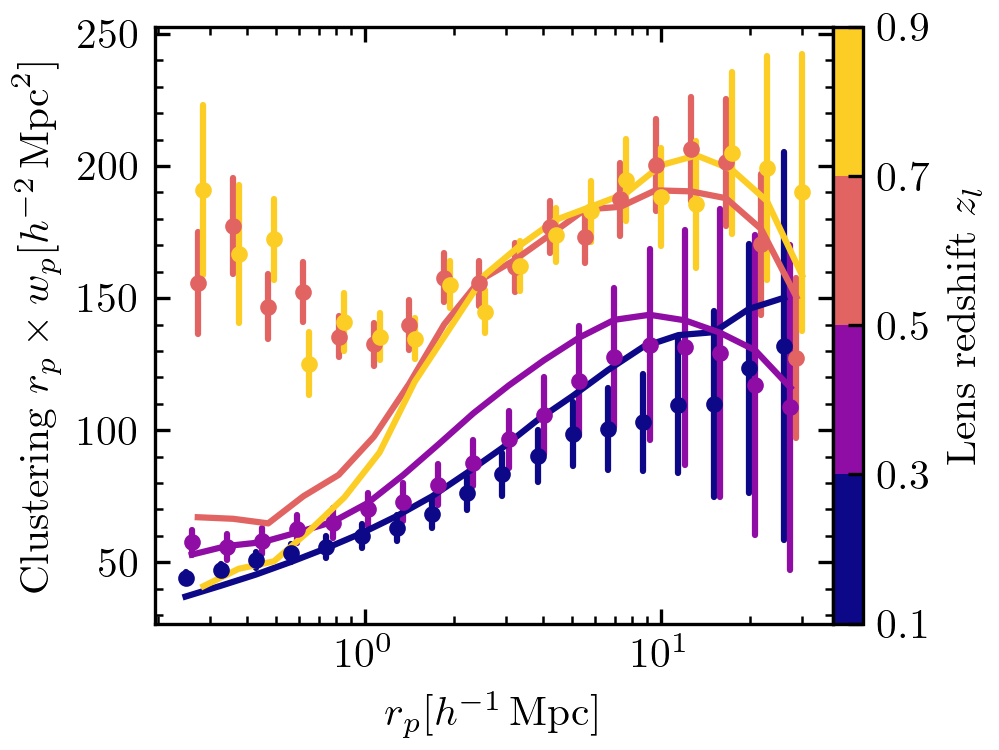
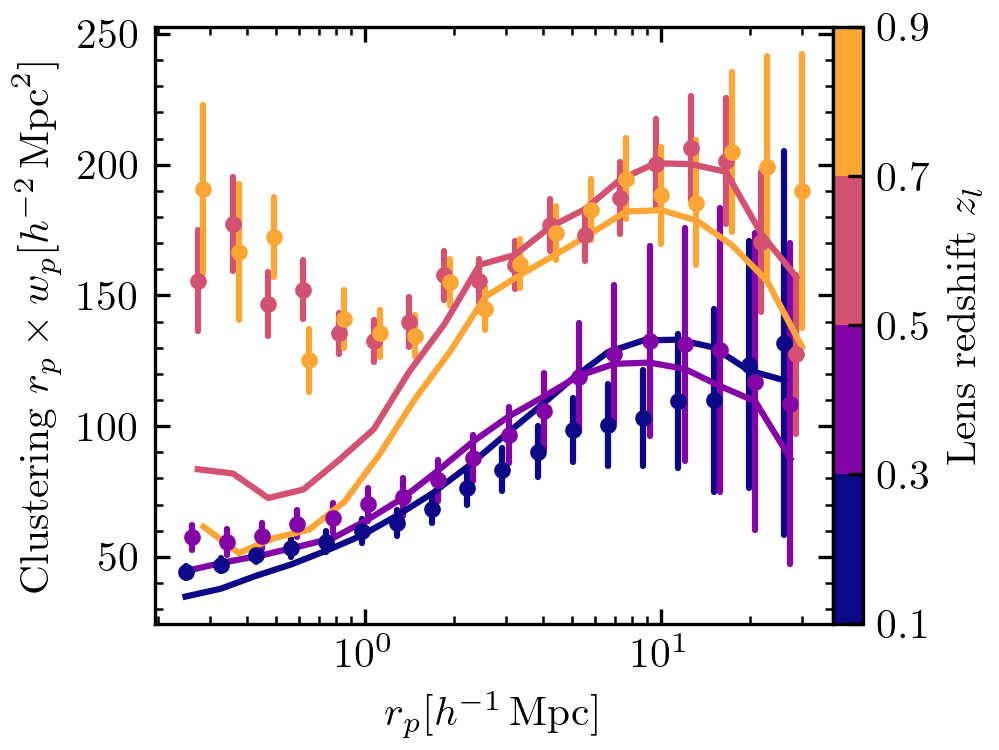
updated misc/lens_clustering

diff --git a/misc/lens_clustering/run.py b/misc/lens_clustering/run.py
@@ -2,7 +2,6 @@ import os
 import zebu
 import numpy as np
 import multiprocessing
-from scipy import constants
 import matplotlib as mpl
 import matplotlib.pyplot as plt
 from Corrfunc.mocks import DDrppi_mocks
@@ -20,17 +19,17 @@ def projected_correlation_function(table_l, table_r, rp_bins, pi_max):
     n_r = len(table_r)
 
     n = multiprocessing.cpu_count()
-    c = constants.c / 1000.0
 
     ll = DDrppi_mocks(True, 2, n, pi_max, rp_bins, table_l['ra'],
-                      table_l['dec'], table_l['z'] * c)['npairs']
+                      table_l['dec'], table_l['d_com'],
+                      is_comoving_dist=True)['npairs']
     rr = DDrppi_mocks(True, 2, n, pi_max, rp_bins, table_r['ra'],
-                      table_r['dec'], table_r['z'].astype(np.float64) *
-                      c)['npairs']
+                      table_r['dec'], table_r['d_com'],
+                      is_comoving_dist=True)['npairs']
     lr = DDrppi_mocks(False, 2, n, pi_max, rp_bins, table_l['ra'],
-                      table_l['dec'], table_l['z'] * c,
+                      table_l['dec'], table_l['d_com'],
                       RA2=table_r['ra'], DEC2=table_r['dec'],
-                      CZ2=table_r['z'].astype(np.float64) * c)['npairs']
+                      CZ2=table_r['d_com'], is_comoving_dist=True)['npairs']
 
     wp = convert_rp_pi_counts_to_wp(n_l, n_l, n_r, n_r, ll, lr, lr, rr,
                                     len(rp_bins) - 1, pi_max)
@@ -46,6 +45,8 @@ for i in range(4):
 
     table_l = zebu.read_mock_data('lens', i)
     table_r = zebu.read_mock_data('random', i)
+    table_l['d_com'] = zebu.cosmo.comoving_distance(table_l['z']).value
+    table_r['d_com'] = zebu.cosmo.comoving_distance(table_r['z']).value
     wp_list.append(projected_correlation_function(
         table_l, table_r, rp_bins, pi_max))
 
@@ -55,7 +56,7 @@ rp = np.sqrt(rp_bins[1:] * rp_bins[:-1])
 
 
 z_bins = zebu.lens_z_bins
-color_list = plt.get_cmap('plasma')(np.linspace(0.0, 0.9, len(z_bins) - 1))
+color_list = plt.get_cmap('plasma')(np.linspace(0.0, 0.8, len(z_bins) - 1))
 cmap = mpl.colors.ListedColormap(color_list)
 sm = plt.cm.ScalarMappable(cmap=cmap)
 sm._A = []
